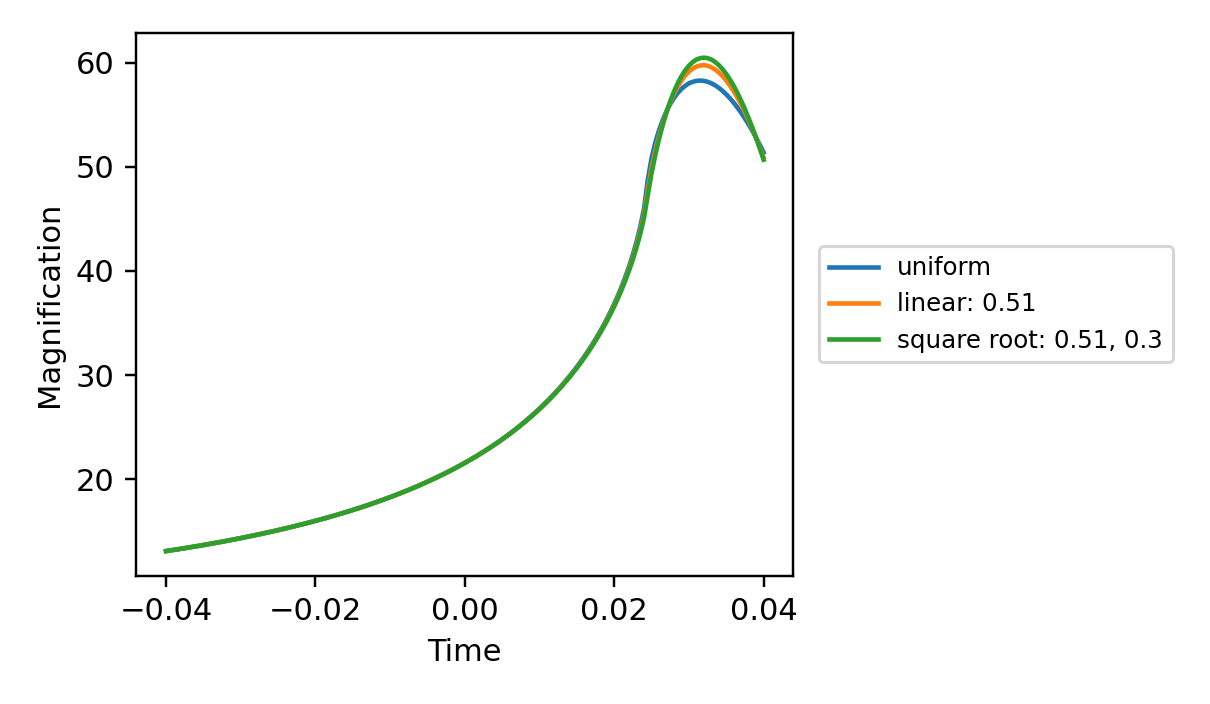
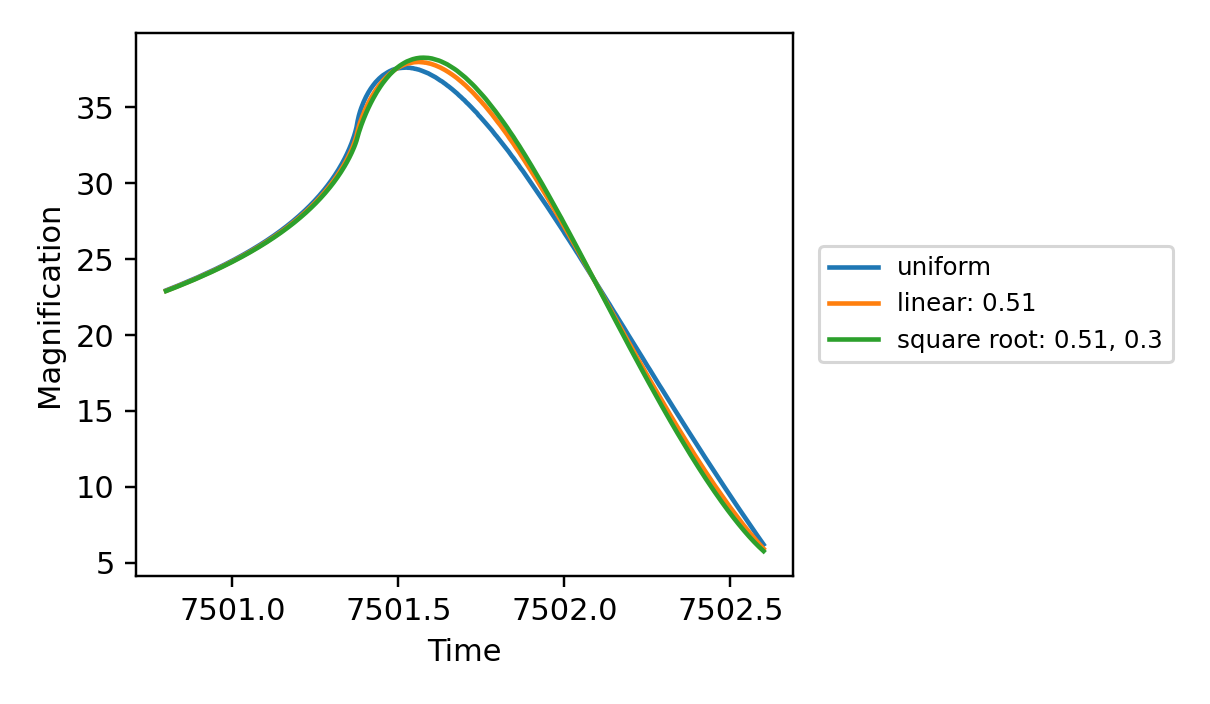
docs: focus limb-darkening example on caustic crossing

diff --git a/example/docs-python/generate_figures.py b/example/docs-python/generate_figures.py
@@ -362,8 +362,9 @@ def binary_source_binary_lens():
 
 
 def limb_darkening():
-    params = dict(s=0.8, q=0.1, u0=0.01, alpha=0.0, rho=0.01, tE=1.0, t0=0.0)
-    times = np.linspace(-0.04, 0.04, 161)
+    params = dict(s=0.9, q=0.1, u0=0.0, alpha=1.0, rho=0.01, tE=30.0, t0=7500.0)
+    times = np.linspace(7470.0, 7530.0, 300)
+    zoom_times = np.linspace(7500.8, 7502.6, 500)
     options = lcbinint.Options(tol=1e-3, reltol=1e-3)
     uniform_curve = lcbinint.LightCurve(
         options=options, limb_darkening=lcbinint.LimbDarkening.none()
@@ -375,10 +376,21 @@ def limb_darkening():
         options=options, limb_darkening=lcbinint.LimbDarkening.square_root(0.51, 0.3)
     )
 
+    plt.figure(figsize=(3.8, 2.55))
+    plt.plot(times, square_root_curve(times, params), color="tab:green", label="square-root profile")
+    plt.axvspan(7500.8, 7502.6, color="0.85", zorder=0, label="zoomed interval")
+    plt.xlabel("Time")
+    plt.ylabel("Magnification")
+    plt.legend(fontsize=8)
+    save("LimbDarkening_full_event.png")
+
     plt.figure(figsize=(5.5, 3.2))
-    plt.plot(times, uniform_curve(times, params), label="uniform")
-    plt.plot(times, linear_curve(times, params), label="linear: 0.51")
-    plt.plot(times, square_root_curve(times, params), label="square root: 0.51, 0.3")
+    plt.plot(zoom_times, uniform_curve(zoom_times, params), label="uniform")
+    plt.plot(zoom_times, linear_curve(zoom_times, params), label="linear: 0.51")
+    plt.plot(
+        zoom_times, square_root_curve(zoom_times, params),
+        label="square root: 0.51, 0.3",
+    )
     plt.xlabel("Time")
     plt.ylabel("Magnification")
     plt.legend(loc="center left", bbox_to_anchor=(1.02, 0.5), fontsize=8)

diff --git a/docs/python/LimbDarkening.md b/docs/python/LimbDarkening.md
@@ -5,9 +5,9 @@
 > VBMicrolensing correspondence: [LimbDarkening.md](https://github.com/valboz/VBMicrolensing/blob/main/docs/python/LimbDarkening.md). The linear coefficient `0.51` and square-root coefficients `0.51, 0.3` are retained.
 
 Limb darkening is a property of a light-curve calculation, so configure it when
-creating `LightCurve`. It is not a per-call argument. Create one evaluator for
-each source profile (or passband), then call each evaluator with the same times
-and lens parameters.
+creating `LightCurve`. It is not a per-call argument. The event below crosses a
+binary-lens caustic; the full light curve gives the event context, and the
+following zoom makes the profile-dependent part visible.
 
 ## Configure `LightCurve`
 
@@ -17,10 +17,11 @@ import matplotlib.pyplot as plt
 import lcbinint
 
 params = {
-    "s": 0.8, "q": 0.1, "u0": 0.01, "alpha": 0.0,
-    "rho": 0.01, "tE": 1.0, "t0": 0.0,
+    "s": 0.9, "q": 0.1, "u0": 0.0, "alpha": 1.0,
+    "rho": 0.01, "tE": 30.0, "t0": 7500.0,
 }
-t = np.linspace(-0.04, 0.04, 161)
+t = np.linspace(params["t0"] - params["tE"], params["t0"] + params["tE"], 300)
+zoom_t = np.linspace(7500.8, 7502.6, 500)
 options = lcbinint.Options(tol=1e-3, reltol=1e-3)
 
 uniform_curve = lcbinint.LightCurve(
@@ -35,30 +36,48 @@ square_root_curve = lcbinint.LightCurve(
     options=options,
     limb_darkening=lcbinint.LimbDarkening.square_root(0.51, 0.3),
 )
-
-uniform = uniform_curve(t, params)
-linear = linear_curve(t, params)
-square_root = square_root_curve(t, params)
 ```
 
 `none()` is a uniform source. `linear(u)` uses the linear coefficient `u`.
 `square_root(c, d)` uses the native two-coefficient profile
 `I(μ) = 1 - c(1-μ) - d(1-√μ)`.
 
-Plot the three light curves from those configured evaluators:
+First, calculate the complete caustic-crossing event. The shaded interval is
+the part enlarged below.
 
 ```python
+full_magnification = square_root_curve(t, params)
+
+plt.figure(figsize=(3.8, 2.55))
+plt.plot(t, full_magnification, color="tab:green", label="square-root profile")
+plt.axvspan(7500.8, 7502.6, color="0.85", zorder=0, label="zoomed interval")
+plt.xlabel("Time")
+plt.ylabel("Magnification")
+plt.legend(fontsize=8)
+plt.show()
+```
+
+![Full caustic-crossing light curve](figures/LimbDarkening_full_event.png)
+
+Now evaluate the three configured profiles only across the caustic-crossing
+interval:
+
+```python
+uniform = uniform_curve(zoom_t, params)
+linear = linear_curve(zoom_t, params)
+square_root = square_root_curve(zoom_t, params)
+
 plt.figure(figsize=(5.5, 3.2))
-plt.plot(t, uniform, label="uniform")
-plt.plot(t, linear, label="linear: 0.51")
-plt.plot(t, square_root, label="square root: 0.51, 0.3")
+plt.plot(zoom_t, uniform, label="uniform")
+plt.plot(zoom_t, linear, label="linear: 0.51")
+plt.plot(zoom_t, square_root, label="square root: 0.51, 0.3")
 plt.xlabel("Time")
 plt.ylabel("Magnification")
 plt.legend(loc="center left", bbox_to_anchor=(1.02, 0.5), fontsize=8)
 plt.show()
 ```
 
-![Limb-darkening comparison](figures/LimbDarkening_comparison.png)
+![Limb-darkening caustic-crossing zoom](figures/LimbDarkening_comparison.png)
 
 Quadratic, logarithmic, user-defined, and simultaneous multi-band profiles are
 not native profiles in the current `lcbinint` Python API. The historical
